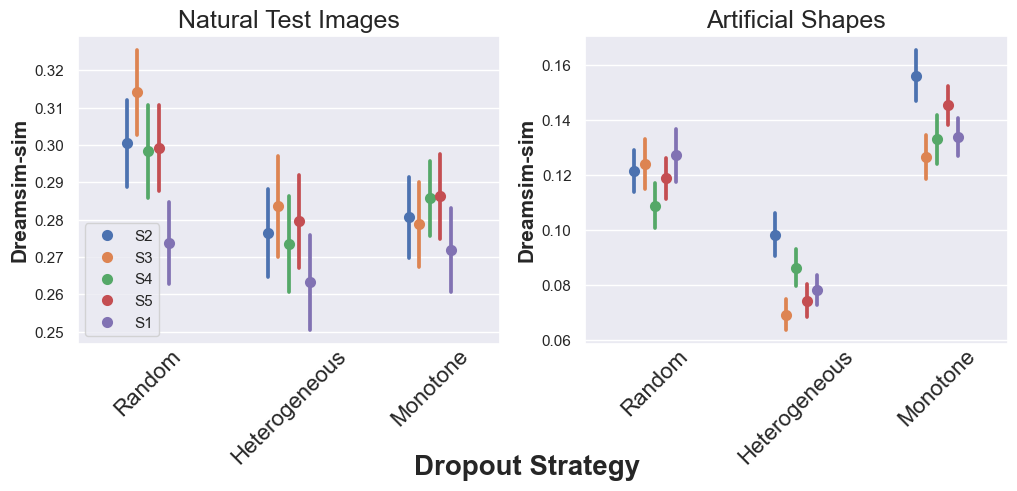
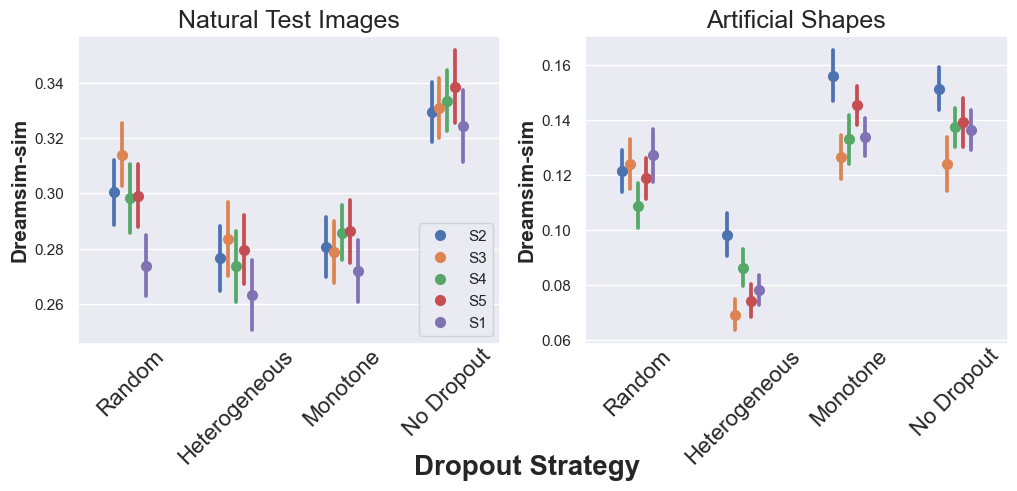
added full baseline for monotone heterogeneous experiment

diff --git a/content/experiments/experiment_dropout.tex b/content/experiments/experiment_dropout.tex
@@ -279,7 +279,7 @@ In the following, we will further investigate why the performance of the artific
 \end{figure}
 
 
-The quantitative results of the reconstructions with the monotonous and heterogeneous subsample training datasets are shown in Figure~\ref{fig:dropout_discussion_reconstruction_icnn} for the ICNN and in Figure Figure~\ref{fig:dropout_discussion_reconstruction_bd} for the brain-diffuser (the results for each individual decoder for the monotonous vs.\ heterogeneous data sets are shown in the appendix in figures~\ref{fig:dropout_discussion_translator_id_acc_cliptext},~\ref{fig:dropout_discussion_translator_id_acc_clipvision},~\ref{fig:dropout_discussion_translator_id_acc_vdvae},~\ref{fig:dropout_discussion_translator_id_acc_icnn}). In the case of the ICNN, random dropout performs better than both monotonous and heterogeneous subsampling. Contrary to expectation, monotonous subsampling actually performs worse than heterogeneous subsampling with artificial shapes. However, the results for the brain diffuser are quite different. As expected, random subsampling performs best for natural test images. For the artificial shapes, however, there is a clear effect: monotonous subsampling leads to significantly better performance than heterogeneous subsampling. This effect is also best illustrated by the qualitative reconstructions for the natural test images in Figure~\ref{fig:dropout_discussion_test} (the qualitative results for the artificial shapes are shown in Figure~\ref{fig:dropout_discussion_art} in the appendix): for each image reconstructed with the brain diffuser, a monochrome background can be seen in the monotonous condition. In contrast, all backgrounds show multiple details when the heterogeneous training data is used. This also shows why the results of the ICNN for the artificial shapes are not necessarily improved by using monotonous training: the reconstructions with the ICNN have a comparatively neutral background when both monotonous and heterogeneous training data are used. The insights that can be gained from this additional investigation are twofold. On the one hand, the brain diffuser can be strongly conditioned to reconstruct single objects with monotonous backgrounds, so that the performance for the artificial images can be greatly improved by the background of the images alone. On the other hand, it can be seen that the ICNN generally seems to produce images with neutral backgrounds and a central object in the middle (this can also be checked with the other qualitative results in this experiment). It therefore seems that the ICNN has a bias towards this type of image, where single central objects are displayed on a neutral background, regardless of the nature of the training data. 
+The quantitative results of the reconstructions with the monotonous and heterogeneous subsample training datasets are shown in Figure~\ref{fig:dropout_discussion_reconstruction_icnn} for the ICNN and in Figure Figure~\ref{fig:dropout_discussion_reconstruction_bd} for the brain-diffuser (the results for each individual decoder for the monotonous vs.\ heterogeneous data sets are shown in the appendix in figures~\ref{fig:dropout_discussion_translator_id_acc_cliptext},~\ref{fig:dropout_discussion_translator_id_acc_clipvision},~\ref{fig:dropout_discussion_translator_id_acc_vdvae},~\ref{fig:dropout_discussion_translator_id_acc_icnn}). In the case of the ICNN, random dropout performs better than both monotonous and heterogeneous subsampling. Contrary to expectation, monotonous subsampling actually performs worse than heterogeneous subsampling with artificial shapes. However, the results for the brain diffuser are quite different. As expected, random subsampling performs best for natural test images. For the artificial shapes, however, there is a clear effect: monotonous subsampling leads to significantly better performance than heterogeneous subsampling. It is even on par with the performance that can be expected, if there is no dropout at all (all training images are used). This effect is also best illustrated by the qualitative reconstructions for the natural test images in Figure~\ref{fig:dropout_discussion_test} (the qualitative results for the artificial shapes are shown in Figure~\ref{fig:dropout_discussion_art} in the appendix): for each image reconstructed with the brain diffuser, a monochrome background can be seen in the monotonous condition. In contrast, all backgrounds show multiple details when the heterogeneous training data is used. This also shows why the results of the ICNN for the artificial shapes are not necessarily improved by using monotonous training: the reconstructions with the ICNN have a comparatively neutral background when both monotonous and heterogeneous training data are used. The insights that can be gained from this additional investigation are twofold. On the one hand, the brain diffuser can be strongly conditioned to reconstruct single objects with monotonous backgrounds, so that the performance for the artificial images can be greatly improved by the background of the images alone. There is even no quantitative performance increase if all training images would be used instead of only the ones with monotone background. On the other hand, it can be seen that the ICNN generally seems to produce images with neutral backgrounds and a central object in the middle (this can also be checked with the other qualitative results in this experiment). It therefore seems that the ICNN has a bias towards this type of image, where single central objects are displayed on a neutral background, regardless of the nature of the training data. 
 
 \begin{figure}[ht]
   \centering
